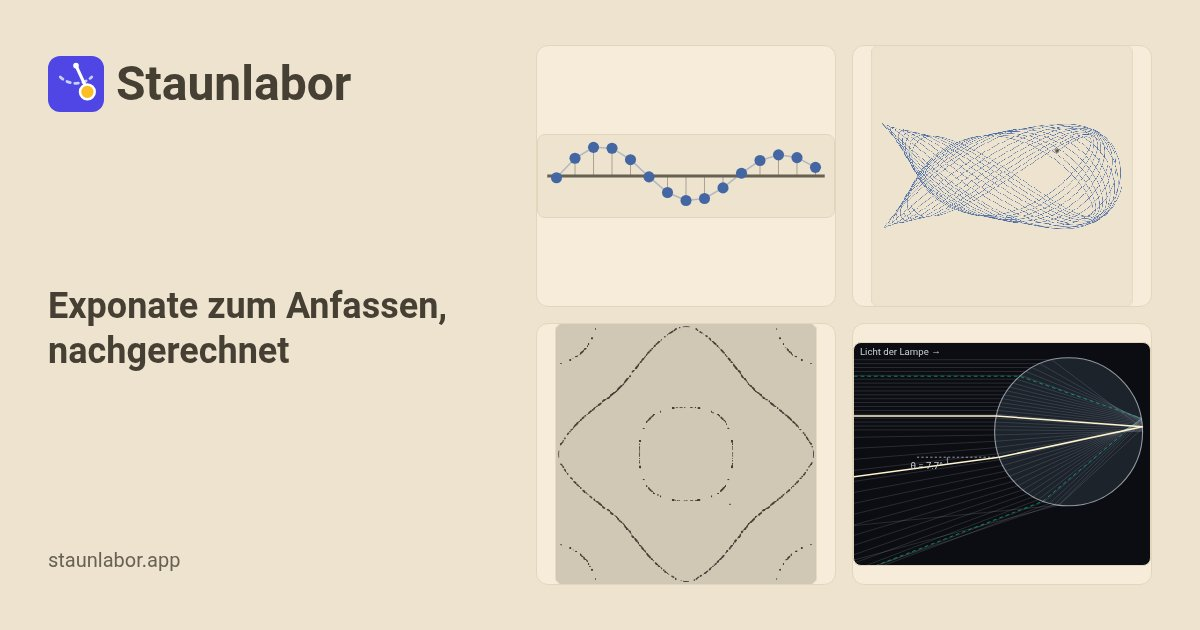
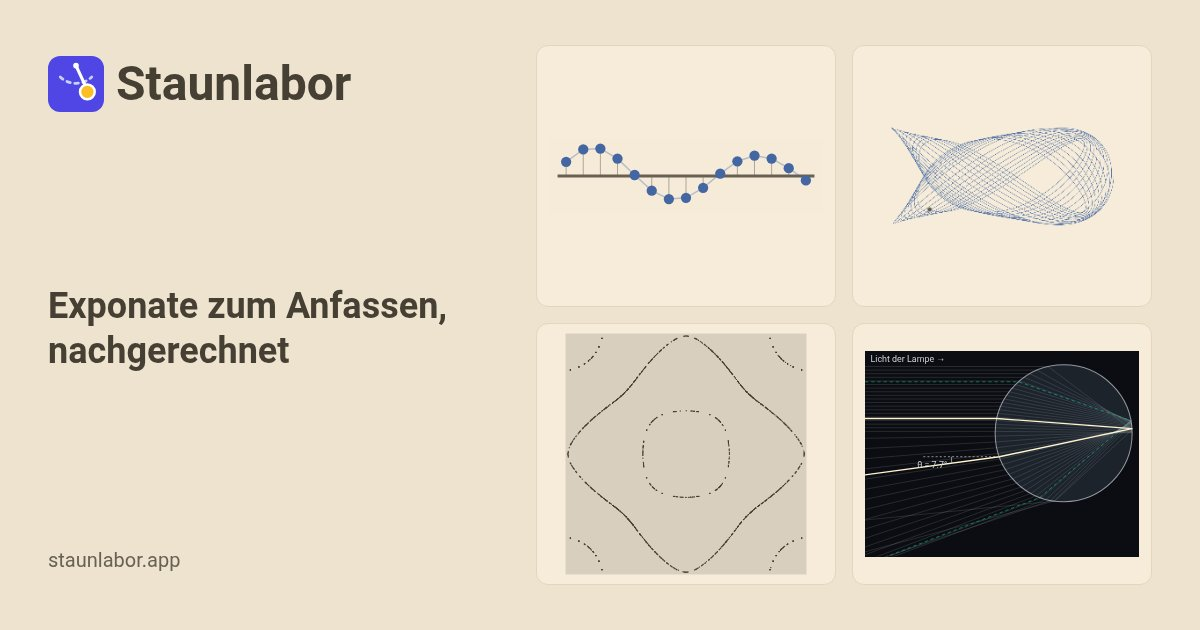
fix(experiments): the overview's link card shows its four drawings without their own frames
As on the exhibits' cards since df26df0: each cell is the frame, the drawing
plain in it. overview.jpg rewritten.

Claude-Session: https://claude.ai/code/session_014vjfwQrPysnYMwTbDwYefK

diff --git a/frontend/src/features/experiments/preview-card.tsx b/frontend/src/features/experiments/preview-card.tsx
@@ -89,7 +89,7 @@ function OverviewCard({ held }: { held: boolean }) {
       </div>
       <div className="grid flex-1 grid-cols-2 gap-4">
         {OVERVIEW_STILLS.map((exhibit) => (
-          <FittedPreview key={exhibit} exhibit={exhibit} still={held} height={262} box={FRAME} />
+          <FittedPreview key={exhibit} exhibit={exhibit} still={held} height={262} box={FRAME} frame="p-3" plain />
         ))}
       </div>
     </div>
